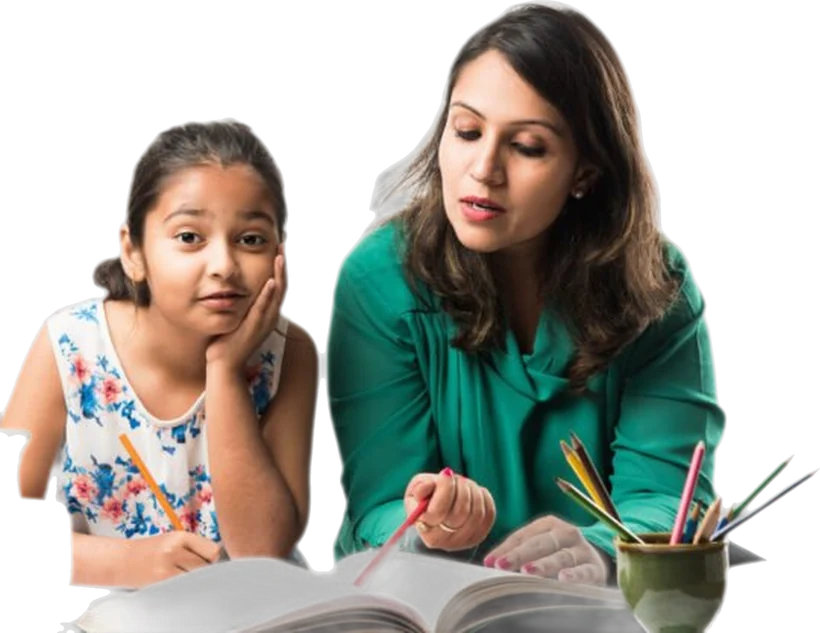
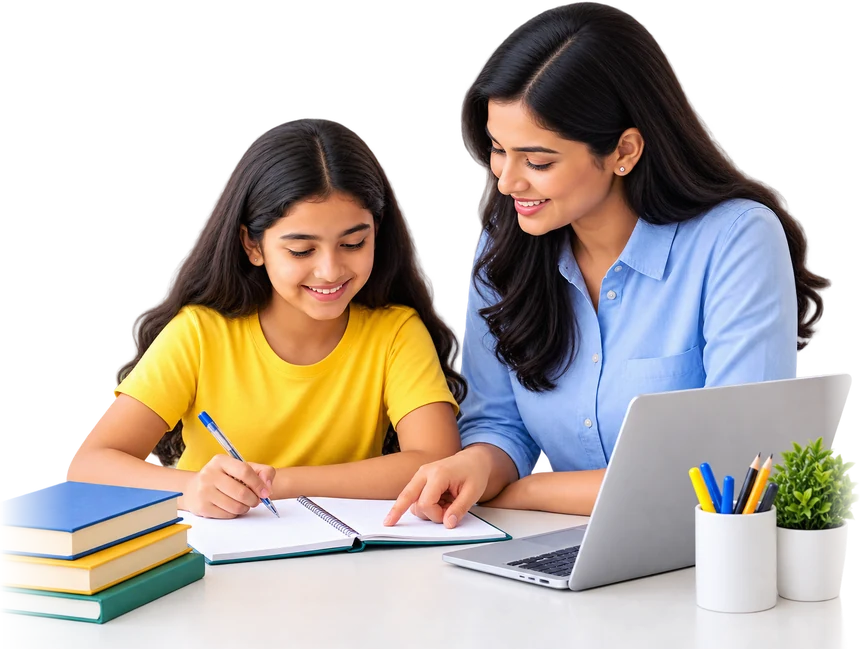
Home Page Changes

diff --git a/src/app/components/Hero.tsx b/src/app/components/Hero.tsx
@@ -12,6 +12,7 @@ import {
   Code2,
   Music,
   PersonStanding,
+  MapPin,
 } from 'lucide-react';
 import { useNavigate } from 'react-router-dom';
 import { track } from '../../seo/analytics';
@@ -19,18 +20,23 @@ import { track } from '../../seo/analytics';
 /* ─────────────────────────────────────────────────────────────────────────
    HERO — full-bleed banner
 
-   The photo is a transparent cutout — the studio backdrop has been removed, so
-   there is no white block and no card. The subjects sit directly on the page
-   background and the gradient shows through around them.
+   PHOTO
+   The photo is a transparent cutout. Its left edge was feathered before export
+   because the frame sliced the book stack flat and that cut read as a hard
+   vertical line. Keep the .webp files — do NOT re-export as JPEG, and do not
+   put a background colour behind the image.
 
-   Because the asset carries alpha, do NOT re-export it as JPEG and do not add
-   a background colour behind it.
+   BACKDROP
+   Depth behind the photo comes from stacked, purely decorative layers: a base
+   diagonal wash, two radial glows, a fine grid, a large brand disc, a thin
+   outline ring and a dotted patch. All are aria-hidden and carry no meaning,
+   so they can be re-ordered or removed freely.
 
-   The "We help in" card is centred on the boundary between this section and the
-   one below: it sits in flow after the banner and is shifted up by half its own
-   height. Move the whole group with the banner's bottom padding; do not swap the
-   translate for a fixed negative margin, which is what previously let the card
-   climb over the "Find a Tutor" button.
+   "WE HELP IN" CARD
+   Sits in flow after the banner and is shifted up by half its own height, so
+   its centre lands on the section boundary. Move the group with the banner's
+   bottom padding — never swap the translate for a fixed negative margin, which
+   is what previously let the card climb over the button.
 ───────────────────────────────────────────────────────────────────────── */
 
 const TRUST_BADGES = [
@@ -55,7 +61,7 @@ const CATEGORIES = [
 ];
 
 const PHOTO_ALT =
-  'A tutor explaining a page of a textbook to a young student sitting beside her at home';
+  'A tutor sitting beside a young student at her desk, helping her work through a page in her notebook';
 
 export function Hero() {
   const navigate = useNavigate();
@@ -63,39 +69,77 @@ export function Hero() {
   return (
     <section className="relative z-10 bg-white">
 
-      {/* ══════════════ BANNER BLOCK ══════════════ */}
+      {/* ══════════════ BANNER ══════════════ */}
       <div className="relative overflow-hidden">
 
-        {/* Background: tint on the left, pure white well before the photo starts */}
+        {/* Backdrop 1 — base wash, reaching white before the photo starts */}
         <div
-          className="absolute inset-0 bg-[linear-gradient(100deg,#E8F0FF_0%,#F1EEFF_22%,#FCFAFF_36%,#FFFFFF_46%,#FFFFFF_100%)]"
-          aria-hidden="true"
-        />
-        <div
-          className="absolute inset-0 opacity-[0.28] bg-[linear-gradient(to_right,#1e1b3a08_1px,transparent_1px),linear-gradient(to_bottom,#1e1b3a08_1px,transparent_1px)] bg-[size:64px_64px]"
+          className="absolute inset-0 bg-[linear-gradient(103deg,#E6EEFF_0%,#EFEBFF_20%,#F8F5FF_34%,#FFFFFF_46%,#FFFFFF_100%)]"
           aria-hidden="true"
         />
 
-        {/* Soft brand circle, sitting between the copy and the photo */}
+        {/* Backdrop 2 — soft radial glows, mesh-gradient feel */}
         <div
-          className="hidden lg:block absolute left-[42%] top-[10%] w-[30rem] h-[30rem] rounded-full bg-gradient-to-br from-[#CFE0FF]/45 to-[#E7DBFF]/45 blur-[70px]"
+          className="absolute -top-40 -left-32 w-[46rem] h-[46rem] rounded-full opacity-60"
+          aria-hidden="true"
+          style={{
+            background:
+              'radial-gradient(circle, rgba(123,47,247,0.16) 0%, rgba(123,47,247,0.05) 45%, transparent 70%)',
+            filter: 'blur(20px)',
+          }}
+        />
+        <div
+          className="hidden md:block absolute -bottom-52 left-[16%] w-[40rem] h-[40rem] rounded-full opacity-50"
+          aria-hidden="true"
+          style={{
+            background:
+              'radial-gradient(circle, rgba(234,88,12,0.12) 0%, rgba(234,88,12,0.04) 45%, transparent 70%)',
+            filter: 'blur(24px)',
+          }}
+        />
+
+        {/* Backdrop 3 — fine grid, faded out towards the bottom */}
+        <div
+          className="absolute inset-0 opacity-[0.30] bg-[linear-gradient(to_right,#1e1b3a0a_1px,transparent_1px),linear-gradient(to_bottom,#1e1b3a0a_1px,transparent_1px)] bg-[size:64px_64px] [mask-image:linear-gradient(to_bottom,black,transparent_88%)]"
           aria-hidden="true"
         />
 
-        {/* ────── Photo: transparent cutout, no background block ────── */}
-        <div className="hidden lg:block absolute bottom-0 right-0 w-[54%] xl:w-[52%] 2xl:w-[50%] pointer-events-none">
+        {/* Backdrop 4 — shapes behind the photo */}
+        <div
+          className="hidden lg:block absolute right-[7%] top-[13%] w-[33rem] h-[33rem] rounded-full bg-[radial-gradient(circle_at_30%_25%,#DCE8FF_0%,#E8DFFF_55%,#F6F1FF_100%)] opacity-80"
+          aria-hidden="true"
+        />
+        <div
+          className="hidden xl:block absolute right-[3.5%] top-[8%] w-[37rem] h-[37rem] rounded-full border border-[#7B2FF7]/[0.13]"
+          aria-hidden="true"
+        />
+        <div
+          className="hidden lg:block absolute top-24 right-8 w-40 h-28 opacity-45"
+          aria-hidden="true"
+          style={{
+            backgroundImage: 'radial-gradient(#7B2FF7 1.5px, transparent 1.5px)',
+            backgroundSize: '18px 18px',
+          }}
+        />
+        <div
+          className="hidden xl:block absolute bottom-10 right-[44%] w-24 h-24 rounded-full border-2 border-[#EA580C]/[0.16]"
+          aria-hidden="true"
+        />
+
+        {/* Photo — transparent cutout, full-bleed right */}
+        <div className="hidden lg:block absolute bottom-0 right-0 w-[55%] xl:w-[53%] 2xl:w-[51%] pointer-events-none">
           <img
-            src="/tutoo_assets/hero/tutor-student-3.png"
+            src="/tutoo_assets/hero/tutor-student.webp"
             alt={PHOTO_ALT}
             width={1400}
-            height={1077}
+            height={994}
             fetchPriority="high"
             decoding="async"
-            className="w-full h-auto object-contain object-bottom drop-shadow-[0_18px_40px_rgba(30,27,58,0.10)]"
+            className="w-full h-auto object-contain object-bottom drop-shadow-[0_22px_45px_rgba(30,27,58,0.13)]"
           />
         </div>
 
-        {/* ────── Copy ────── */}
+        {/* ── Copy ── */}
         <div className="relative max-w-7xl mx-auto px-6 lg:px-8">
           <motion.div
             initial={{ opacity: 0, y: 24 }}
@@ -103,6 +147,18 @@ export function Hero() {
             transition={{ duration: 0.55, ease: [0.16, 1, 0.3, 1] }}
             className="w-full lg:w-[50%] xl:w-[48%] pt-32 pb-28 lg:pt-36 lg:pb-36"
           >
+            <motion.div
+              initial={{ opacity: 0, y: -8 }}
+              animate={{ opacity: 1, y: 0 }}
+              transition={{ duration: 0.4 }}
+              className="inline-flex items-center gap-2 pl-3 pr-4 py-1.5 rounded-full bg-white/80 backdrop-blur border border-[#E6E3F0] shadow-[0_2px_10px_rgba(30,27,58,0.05)] mb-6"
+            >
+              <MapPin className="w-3.5 h-3.5 text-[#6D28D9]" />
+              <span className="text-[13px] font-semibold text-[#1E1B3A]">
+                Kothrud (Pune) · Kolhapur · Online
+              </span>
+            </motion.div>
+
             <h1 className="max-w-[13ch] sm:max-w-[15ch] text-[2.15rem] leading-[1.1] sm:text-[2.6rem] lg:text-[2.75rem] xl:text-[2.95rem] font-bold tracking-[-0.022em] text-[#1E1B3A]">
               Find the Best Tutor.
               <span className="mt-1 block text-[#EA580C]">Learn Better.</span>
@@ -120,10 +176,13 @@ export function Hero() {
                   initial={{ opacity: 0, y: 14 }}
                   animate={{ opacity: 1, y: 0 }}
                   transition={{ delay: 0.15 + i * 0.07, duration: 0.4 }}
+                  whileHover={{ y: -3 }}
                   className="flex flex-col items-center text-center"
                 >
-                  <div className="w-14 h-14 rounded-full bg-white shadow-[0_6px_18px_rgba(30,27,58,0.10)] flex items-center justify-center mb-2.5">
-                    <badge.icon className="w-6 h-6 text-[#6D28D9]" strokeWidth={1.9} />
+                  <div className="w-14 h-14 rounded-2xl bg-white ring-1 ring-[#EFEBFA] shadow-[0_8px_20px_rgba(30,27,58,0.08)] flex items-center justify-center mb-2.5">
+                    <span className="w-9 h-9 rounded-xl bg-[#F4EFFE] flex items-center justify-center">
+                      <badge.icon className="w-[18px] h-[18px] text-[#6D28D9]" strokeWidth={2} />
+                    </span>
                   </div>
                   <span className="text-[13px] font-semibold text-[#1E1B3A] leading-tight">
                     {badge.line1}
@@ -134,86 +193,95 @@ export function Hero() {
               ))}
             </div>
 
-            <div className="mt-9 flex flex-col sm:flex-row gap-4">
-              <button
+            <div className="mt-9">
+              <motion.button
                 type="button"
-                onClick={() => navigate('/find-a-tutor')}
-                className="group inline-flex items-center justify-center gap-2.5 px-8 h-14 rounded-xl bg-[#EA580C] hover:bg-[#C2410C] text-white font-bold text-lg shadow-[0_10px_28px_rgba(234,88,12,0.30)] transition-colors"
+                whileHover={{ y: -2 }}
+                whileTap={{ y: 0 }}
+                onClick={() => {
+                  track('book_cta_click', { placement: 'hero' });
+                  navigate('/find-a-tutor');
+                }}
+                className="group inline-flex items-center justify-center gap-2.5 px-9 h-14 rounded-xl bg-gradient-to-r from-[#F2660F] to-[#EA580C] hover:from-[#EA580C] hover:to-[#C2410C] text-white font-bold text-lg shadow-[0_12px_30px_rgba(234,88,12,0.32)] transition-colors"
               >
                 Find a Tutor
                 <ArrowRight className="w-5 h-5 group-hover:translate-x-1 transition-transform" />
-              </button>
+              </motion.button>
 
+              <p className="mt-3.5 text-sm text-[#6E6A85]">
+                Free first assessment · No obligation
+              </p>
             </div>
           </motion.div>
 
-          {/* ────── Photo: stacked, full-width (mobile & tablet) ────── */}
+          {/* ── Photo: stacked, full-width (mobile & tablet) ── */}
           <motion.div
             initial={{ opacity: 0, y: 20 }}
             animate={{ opacity: 1, y: 0 }}
             transition={{ duration: 0.5, delay: 0.15 }}
             className="lg:hidden relative -mx-6 pb-4"
           >
+            <div
+              className="absolute left-1/2 -translate-x-1/2 top-2 w-[18rem] h-[18rem] sm:w-[23rem] sm:h-[23rem] rounded-full bg-[radial-gradient(circle_at_35%_30%,#DCE8FF_0%,#E8DFFF_60%,transparent_100%)] opacity-80"
+              aria-hidden="true"
+            />
             <img
-              src="/tutoo_assets/hero/tutor-student-sm-1.png"
+              src="/tutoo_assets/hero/tutor-student-sm.webp"
               alt={PHOTO_ALT}
-              width={820}
-              height={631}
+              width={860}
+              height={649}
               fetchPriority="high"
               decoding="async"
-              className="w-full h-auto object-contain"
+              className="relative w-full h-auto object-contain"
             />
           </motion.div>
 
         </div>
       </div>
 
-
-      {/* ══════════════ "WE HELP IN" ══════════════
-          Sits in flow BELOW the banner and is shifted up by exactly half its own
-          height, so its centre line lands on the section boundary — half on the
-          banner, half on the section below. The shift is relative to the card
-          itself, never a fixed offset, so it cannot ride up over the button.
-          It lives outside the banner's overflow-hidden so the lower half is not
-          clipped, and the section carries z-10 so it paints over what follows. */}
+      {/* ══════════════ "WE HELP IN" ══════════════ */}
       <div className="relative z-10 max-w-7xl mx-auto px-6 lg:px-8">
         <div className="-translate-y-1/2">
-        <motion.div
-          initial={{ opacity: 0, y: 20 }}
-          animate={{ opacity: 1, y: 0 }}
-          transition={{ duration: 0.5, delay: 0.3 }}
-          className="bg-white rounded-[22px] shadow-[0_14px_44px_rgba(30,27,58,0.12)] border border-[#EFEDF6] px-5 sm:px-8 py-5"
-        >
-          <div className="flex flex-col lg:flex-row lg:items-center gap-4 lg:gap-6">
-            <p className="text-sm font-bold text-[#1E1B3A] shrink-0 text-center lg:text-left lg:border-r lg:border-[#EFEDF6] lg:pr-6">
-              We help in
-            </p>
+          <motion.div
+            initial={{ opacity: 0, y: 20 }}
+            animate={{ opacity: 1, y: 0 }}
+            transition={{ duration: 0.5, delay: 0.3 }}
+            className="bg-white/95 backdrop-blur rounded-[22px] shadow-[0_18px_50px_rgba(30,27,58,0.13)] ring-1 ring-[#EFEDF6] px-5 sm:px-8 py-5"
+          >
+            <div className="flex flex-col lg:flex-row lg:items-center gap-4 lg:gap-6">
+              <p className="text-sm font-bold text-[#1E1B3A] shrink-0 text-center lg:text-left lg:border-r lg:border-[#EFEDF6] lg:pr-6">
+                We help in
+              </p>
 
-            <ul className="flex-1 grid grid-cols-4 gap-y-4 sm:flex sm:items-start sm:justify-between">
-              {CATEGORIES.map((c, i) => (
-                <li
-                  key={c.label}
-                  className={`flex flex-col items-center justify-start text-center gap-1.5 px-0.5 sm:px-3.5 min-h-[3.25rem] ${
-                    i > 0 ? 'sm:border-l sm:border-[#F1EFF7]' : ''
-                  }`}
-                >
-                  <c.icon className="w-[22px] h-[22px]" style={{ color: c.color }} strokeWidth={1.9} />
-                  <span className="text-[11px] sm:text-xs font-medium text-[#4B4763] leading-tight whitespace-nowrap">
-                    {c.label}
-                  </span>
-                </li>
-              ))}
-            </ul>
-          </div>
+              <ul className="flex-1 grid grid-cols-4 gap-y-4 sm:flex sm:items-start sm:justify-between">
+                {CATEGORIES.map((c, i) => (
+                  <li
+                    key={c.label}
+                    className={`group flex flex-col items-center justify-start text-center gap-1.5 px-0.5 sm:px-3.5 min-h-[3.25rem] ${
+                      i > 0 ? 'sm:border-l sm:border-[#F1EFF7]' : ''
+                    }`}
+                  >
+                    <c.icon
+                      className="w-[22px] h-[22px] transition-transform duration-200 group-hover:-translate-y-0.5"
+                      style={{ color: c.color }}
+                      strokeWidth={1.9}
+                    />
+                    <span className="text-[11px] sm:text-xs font-medium text-[#4B4763] leading-tight whitespace-nowrap">
+                      {c.label}
+                    </span>
+                  </li>
+                ))}
+              </ul>
+            </div>
 
-          <div className="mt-4 pt-3.5 border-t border-[#F1EFF7] flex flex-wrap items-center justify-center gap-x-3 gap-y-1.5 text-[13.5px] text-[#4B4763]">
-            <span className="font-medium">One-to-One Learning</span>
-            <span className="w-1.5 h-1.5 rounded-full bg-[#7B2FF7]" aria-hidden="true" />
-            <span className="font-medium">Personal Attention</span>
-            <span className="w-1.5 h-1.5 rounded-full bg-[#7B2FF7]" aria-hidden="true" />
-            <span className="font-medium">Better Results</span>
-          </div>
-        </motion.div>
+            <div className="mt-4 pt-3.5 border-t border-[#F1EFF7] flex flex-wrap items-center justify-center gap-x-3 gap-y-1.5 text-[13.5px] text-[#4B4763]">
+              <span className="font-medium">One-to-One Learning</span>
+              <span className="w-1.5 h-1.5 rounded-full bg-[#7B2FF7]" aria-hidden="true" />
+              <span className="font-medium">Personal Attention</span>
+              <span className="w-1.5 h-1.5 rounded-full bg-[#7B2FF7]" aria-hidden="true" />
+              <span className="font-medium">Better Results</span>
+            </div>
+          </motion.div>
         </div>
       </div>
     </section>
